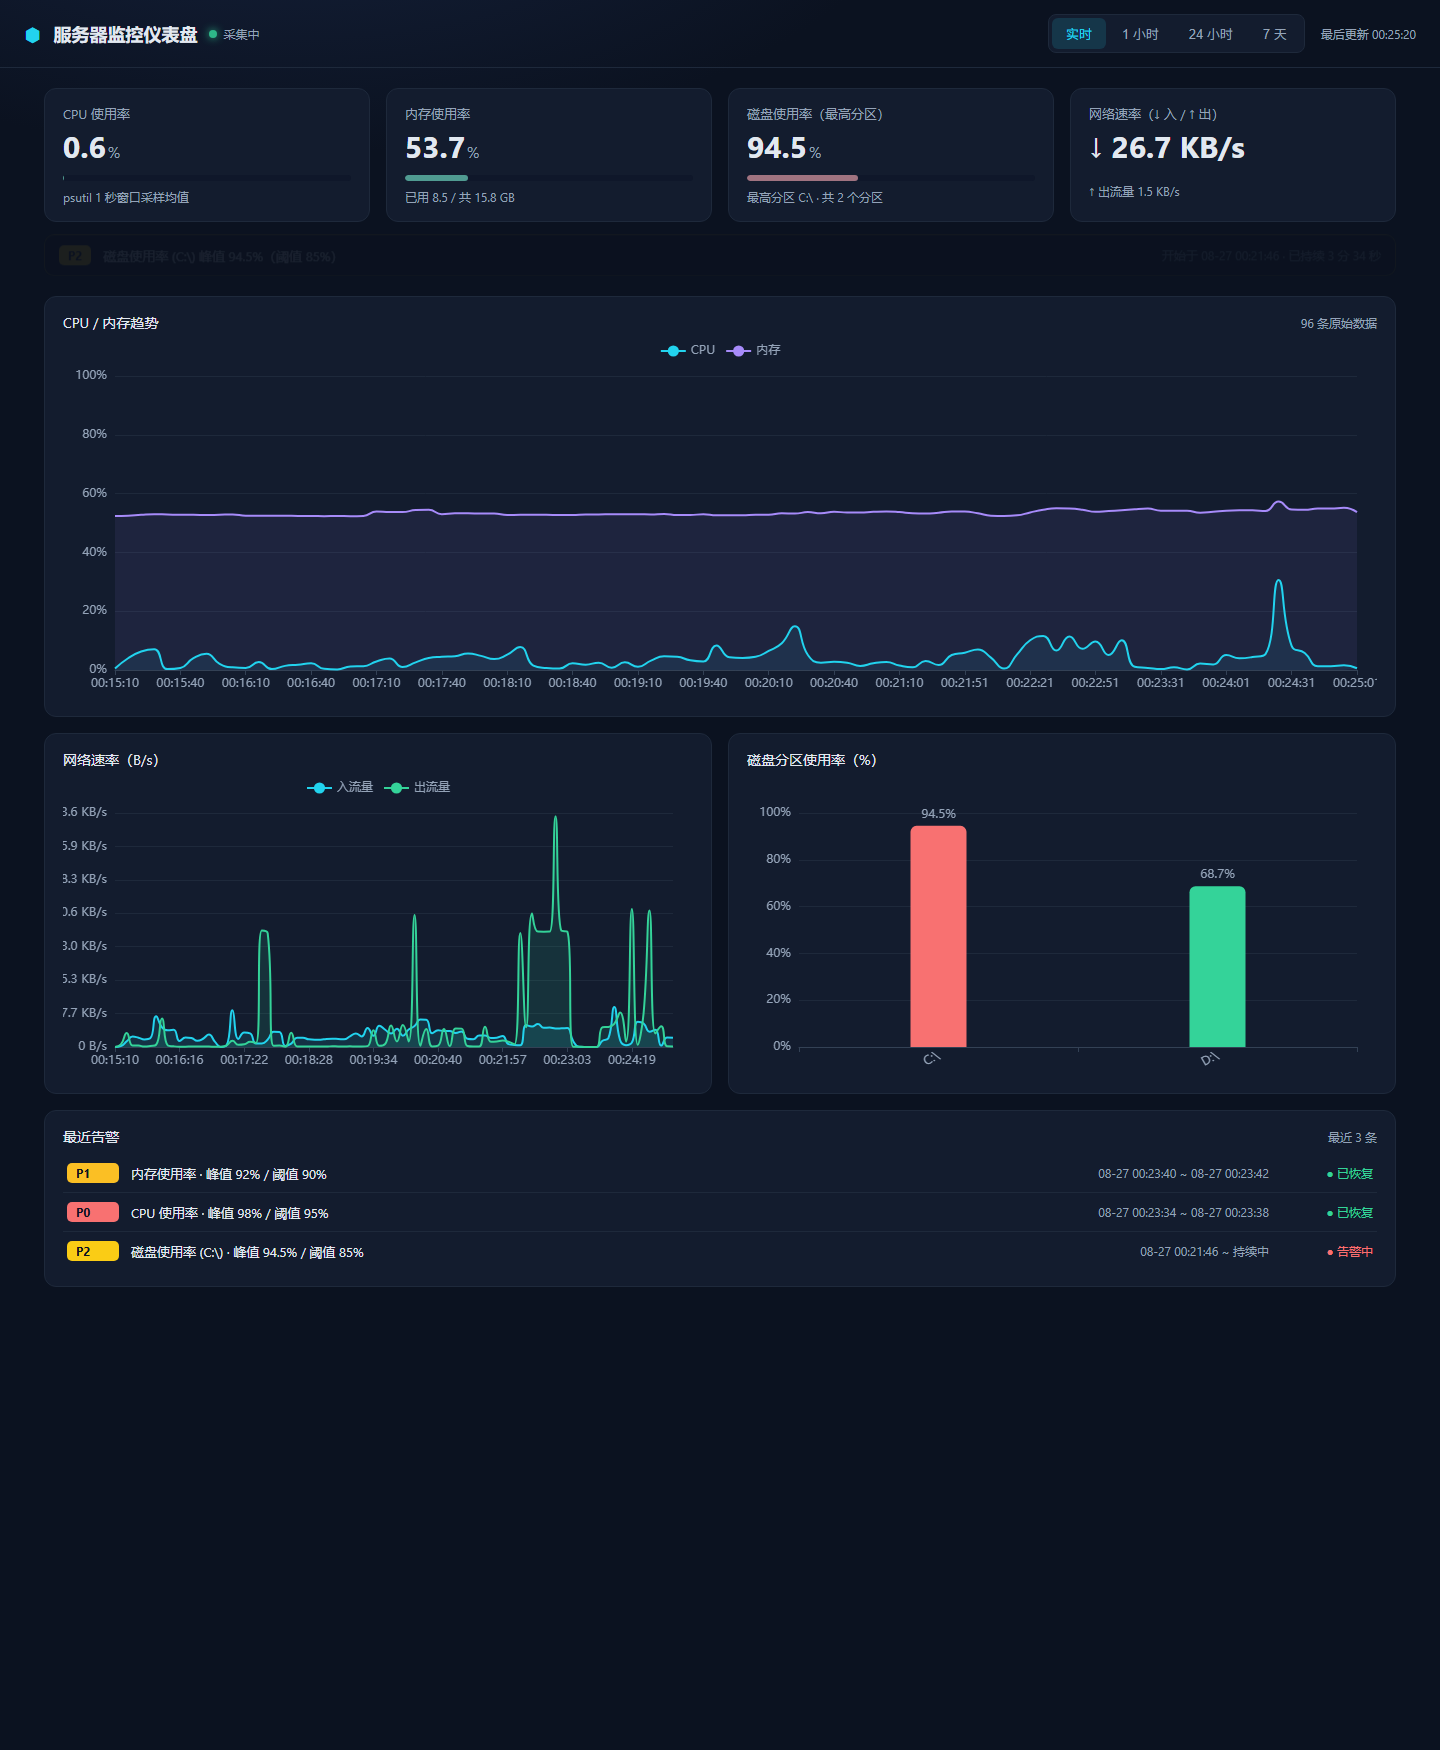
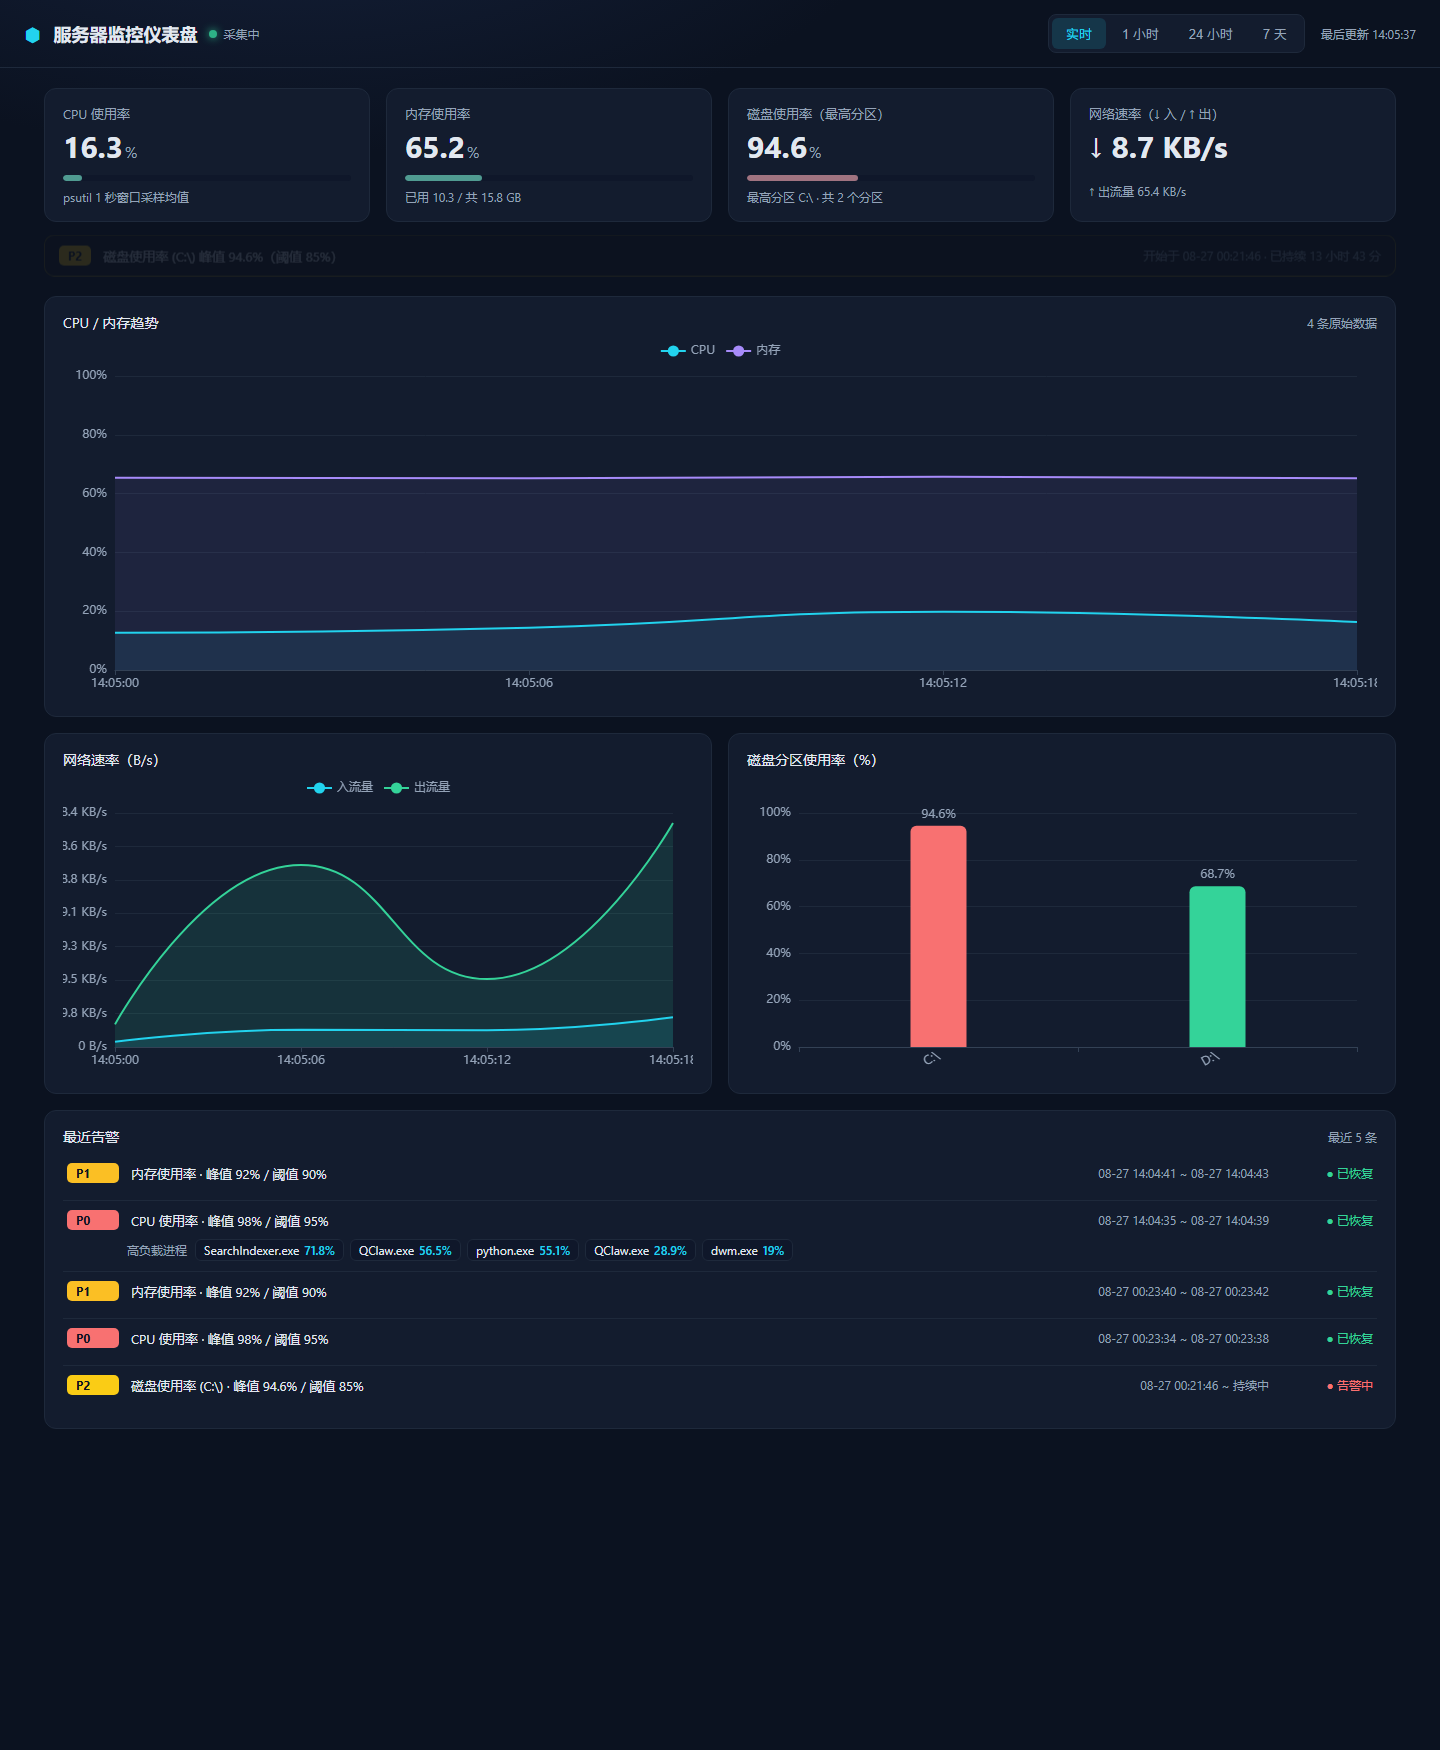
feat: 里程碑4 - P0 CPU告警高负载进程快照(collector.top_procs抓Top5/过滤SystemIdle/storage.alerts新增top_procs列/notify通知附进程列表/dashboard横幅与历史内联展示)

diff --git a/static/dashboard.js b/static/dashboard.js
@@ -223,6 +223,20 @@
     return base + (a.target ? ' (' + a.target + ')' : '');
   }
 
+  function procsHtml(procs) {
+    if (!procs || procs.length === 0) return '';
+    const items = procs.map((p) =>
+      '<span class="proc-chip">' + esc(p.name) + ' <em>' + p.cpu + '%</em></span>'
+    ).join('');
+    return '<div class="alert-procs"><span class="proc-label">高负载进程</span>' + items + '</div>';
+  }
+
+  function esc(s) {
+    return String(s).replace(/[&<>"']/g, (c) => ({
+      '&': '&amp;', '<': '&lt;', '>': '&gt;', '"': '&quot;', "'": '&#39;',
+    })[c]);
+  }
+
   function renderActive(alerts) {
     const banner = document.getElementById('alert-banner');
     if (!alerts || alerts.length === 0) {
@@ -234,9 +248,12 @@
     banner.innerHTML = alerts.map((a) => {
       const dur = Date.now() / 1000 - a.started_at;
       return '<div class="alert-item ' + a.level.toLowerCase() + '">'
+        + '<div class="alert-item-main">'
         + '<span class="level-badge ' + a.level.toLowerCase() + '">' + a.level + '</span>'
         + '<span>' + alertLabel(a) + ' 峰值 ' + a.peak_value + '%（阈值 ' + a.threshold + '%）</span>'
         + '<span class="alert-meta">开始于 ' + fmtDateTime(a.started_at) + ' · 已持续 ' + fmtDuration(dur) + '</span>'
+        + '</div>'
+        + procsHtml(a.top_procs)
         + '</div>';
     }).join('');
   }
@@ -253,11 +270,14 @@
     box.innerHTML = alerts.map((a) => {
       const active = a.ended_at === null;
       const dur = active ? (Date.now() / 1000 - a.started_at) : (a.ended_at - a.started_at);
-      return '<div class="alert-row">'
+      return '<div class="alert-row-wrap">'
+        + '<div class="alert-row">'
         + '<span class="level-badge ' + a.level.toLowerCase() + '">' + a.level + '</span>'
         + '<span>' + alertLabel(a) + ' · 峰值 ' + a.peak_value + '% / 阈值 ' + a.threshold + '%</span>'
         + '<span class="alert-time">' + fmtDateTime(a.started_at) + ' ~ ' + (active ? '持续中' : fmtDateTime(a.ended_at)) + '</span>'
         + '<span class="alert-status ' + (active ? 'active' : 'ok') + '">' + (active ? '● 告警中' : '● 已恢复') + '</span>'
+        + '</div>'
+        + procsHtml(a.top_procs)
         + '</div>';
     }).join('');
   }

diff --git a/static/dashboard.css b/static/dashboard.css
@@ -77,15 +77,26 @@ main {
 .alert-banner { display: flex; flex-direction: column; gap: 8px; }
 .alert-banner.hidden { display: none; }
 .alert-item {
-  display: flex; align-items: center; gap: 12px;
+  display: flex; flex-direction: column; gap: 8px;
   border-radius: 10px; padding: 10px 14px; font-size: 13px;
   background: rgba(248, 113, 113, 0.10); border: 1px solid rgba(248, 113, 113, 0.45);
   animation: fadeIn 0.4s ease;
 }
 .alert-item.p1 { background: rgba(251, 191, 36, 0.08); border-color: rgba(251, 191, 36, 0.45); }
 .alert-item.p2 { background: rgba(250, 204, 21, 0.06); border-color: rgba(250, 204, 21, 0.40); }
+.alert-item-main { display: flex; align-items: center; gap: 12px; }
 .alert-meta { margin-left: auto; color: var(--sub); font-size: 12px; white-space: nowrap; }
 @keyframes fadeIn { from { opacity: 0; transform: translateY(-4px); } to { opacity: 1; transform: none; } }
+
+/* 告警进程快照 */
+.alert-procs { display: flex; flex-wrap: wrap; align-items: center; gap: 6px; padding-left: 30px; }
+.proc-label { color: var(--sub); font-size: 12px; margin-right: 2px; }
+.proc-chip {
+  display: inline-flex; align-items: center; gap: 5px;
+  background: #0f172a; border: 1px solid var(--border); border-radius: 6px;
+  padding: 2px 8px; font-size: 12px; color: var(--text);
+}
+.proc-chip em { font-style: normal; color: var(--cyan); font-weight: 600; }
 
 .level-badge {
   font-weight: 700; font-size: 12px; padding: 2px 9px; border-radius: 5px; flex-shrink: 0;
@@ -98,9 +109,11 @@ main {
 .alert-row {
   display: grid; grid-template-columns: 52px 1fr auto 92px;
   gap: 12px; align-items: center; padding: 9px 4px;
-  border-bottom: 1px solid var(--border); font-size: 13px;
+  font-size: 13px;
 }
-.alert-row:last-child { border-bottom: none; }
+.alert-row-wrap { border-bottom: 1px solid var(--border); padding-bottom: 8px; }
+.alert-row-wrap:last-child { border-bottom: none; }
+.alert-row-wrap .alert-procs { padding-left: 64px; padding-bottom: 2px; }
 .alert-time { color: var(--sub); font-size: 12px; white-space: nowrap; }
 .alert-status { font-size: 12px; text-align: right; white-space: nowrap; }
 .alert-status.active { color: #f87171; }

diff --git a/storage.py b/storage.py
@@ -45,9 +45,14 @@ def _connect():
             peak_value REAL,            -- 告警期间峰值
             started_at REAL NOT NULL,
             ended_at REAL,              -- NULL 表示尚未恢复
-            notified INTEGER DEFAULT 0
+            notified INTEGER DEFAULT 0,
+            top_procs TEXT              -- 告警触发时 top 进程快照 JSON（里程碑 4 新增）
         )
     """)
+    # 轻量迁移：旧库 alerts 表缺 top_procs 列时补齐（里程碑 4）
+    alert_cols = {row[1] for row in conn.execute("PRAGMA table_info(alerts)")}
+    if "top_procs" not in alert_cols:
+        conn.execute("ALTER TABLE alerts ADD COLUMN top_procs TEXT")
     conn.execute("CREATE INDEX IF NOT EXISTS idx_alerts_started ON alerts(started_at)")
     return conn
 
@@ -174,16 +179,18 @@ def _alert_from_row(r) -> dict:
         "peak_value": r[5],
         "started_at": r[6],
         "ended_at": r[7],
+        "top_procs": json.loads(r[8]) if len(r) > 8 and r[8] else [],
     }
 
 
-def create_alert(level, metric, target, threshold, peak_value) -> int:
-    """新告警入库，返回告警 id。"""
+def create_alert(level, metric, target, threshold, peak_value, top_procs=None) -> int:
+    """新告警入库，返回告警 id。top_procs 为触发时进程快照（可空）。"""
     conn = _connect()
     cur = conn.execute(
-        "INSERT INTO alerts (level, metric, target, threshold, peak_value, started_at) "
-        "VALUES (?, ?, ?, ?, ?, ?)",
-        (level, metric, target, threshold, peak_value, time.time()),
+        "INSERT INTO alerts (level, metric, target, threshold, peak_value, started_at, top_procs) "
+        "VALUES (?, ?, ?, ?, ?, ?, ?)",
+        (level, metric, target, threshold, peak_value, time.time(),
+         json.dumps(top_procs, ensure_ascii=False) if top_procs else None),
     )
     conn.commit()
     alert_id = cur.lastrowid
@@ -214,7 +221,7 @@ def active_alerts() -> list:
     """当前未恢复的告警。"""
     conn = _connect()
     rows = conn.execute(
-        "SELECT id, level, metric, target, threshold, peak_value, started_at, ended_at "
+        "SELECT id, level, metric, target, threshold, peak_value, started_at, ended_at, top_procs "
         "FROM alerts WHERE ended_at IS NULL ORDER BY started_at DESC"
     ).fetchall()
     conn.close()
@@ -225,7 +232,7 @@ def recent_alerts(limit: int = 50) -> list:
     """最近 limit 条告警记录（含已恢复），新→旧。"""
     conn = _connect()
     rows = conn.execute(
-        "SELECT id, level, metric, target, threshold, peak_value, started_at, ended_at "
+        "SELECT id, level, metric, target, threshold, peak_value, started_at, ended_at, top_procs "
         "FROM alerts ORDER BY started_at DESC LIMIT ?", (limit,)
     ).fetchall()
     conn.close()

diff --git a/collector.py b/collector.py
@@ -10,6 +10,43 @@ import time
 import psutil
 
 
+def snapshot_top_procs(n: int = 5, interval: float = 0.3) -> list:
+    """抓取当前 CPU 占用最高的 n 个进程快照（告警触发时调用，事后排查用）。
+
+    面试要点：
+    - 告警不只是告诉你"出事了"，还要告诉你"是谁干的"——快照记录元凶
+    - psutil 的 cpu_percent 第一次调用返回 0（只有基线），需先建立基线、
+      sleep 一小段再取第二次，才是真实占用
+    - 只在告警触发的"边沿"抓一次，不在每次采集都抓，避免额外开销
+    """
+    procs = []
+    for p in psutil.process_iter(['pid', 'name']):
+        try:
+            p.cpu_percent(interval=None)  # 第一次调用建立基线
+            procs.append(p)
+        except (psutil.NoSuchProcess, psutil.AccessDenied):
+            continue
+
+    time.sleep(interval)  # 让出时间，第二次调用才得到真实占用
+
+    rows = []
+    for p in procs:
+        try:
+            info = p.info
+            cpu = p.cpu_percent(interval=None)
+            rows.append((cpu, info['pid'], info['name']))
+        except (psutil.NoSuchProcess, psutil.AccessDenied):
+            continue
+
+    # 先过滤掉空闲进程（PID 0 的空闲不是元凶），再排序取前 n
+    rows = [r for r in rows if r[1] != 0 and r[2] != "System Idle Process"]
+    rows.sort(reverse=True)
+    return [
+        {"pid": pid, "name": name, "cpu": round(cpu, 1)}
+        for cpu, pid, name in rows[:n]
+    ]
+
+
 class Collector:
     def __init__(self):
         self._last_net = None   # 上次网络计数

diff --git a/alert.py b/alert.py
@@ -13,6 +13,7 @@ import socket
 import time
 
 import config
+import collector
 import notify
 import storage
 
@@ -94,11 +95,21 @@ class AlertEngine:
         st["firing"] = True
         st["peak"] = value
         st["started_at"] = time.time()
-        st["alert_id"] = storage.create_alert(level, metric_name, target, threshold, value)
+
+        # 里程碑 4：CPU 高负载告警触发时抓 top 进程快照，记录"元凶"便于事后排查
+        top_procs = None
+        if metric_name == "cpu_percent":
+            try:
+                top_procs = collector.snapshot_top_procs(n=5)
+            except Exception as e:
+                print(f"[告警引擎] 进程快照失败（不影响告警）: {e}", flush=True)
+
+        st["alert_id"] = storage.create_alert(
+            level, metric_name, target, threshold, value, top_procs)
 
         title, text = notify.build_alert_message(
             level, METRIC_LABELS[metric_name], target, value, threshold,
-            self.hostname, st["started_at"],
+            self.hostname, st["started_at"], top_procs,
         )
         channels = self.notifier.send(title, text)
         print(f"[告警引擎] 触发 {level} {METRIC_LABELS[metric_name]}"

diff --git a/notify.py b/notify.py
@@ -101,7 +101,7 @@ class Notifier:
             server.quit()
 
 
-def build_alert_message(level, metric_label, target, value, threshold, hostname, ts) -> tuple:
+def build_alert_message(level, metric_label, target, value, threshold, hostname, ts, top_procs=None) -> tuple:
     """组装告警/恢复通知的标题与正文（钉钉 markdown / 邮件纯文本通用）。"""
     title = f"🚨 [{level}] 告警触发: {metric_label}"
     lines = [
@@ -110,6 +110,10 @@ def build_alert_message(level, metric_label, target, value, threshold, hostname,
         f"**当前值**: {value}%  (阈值 {threshold}%)",
         f"**时间**: {fmt_time(ts)}",
     ]
+    if top_procs:
+        lines.append("**高负载进程**:")
+        lines += [f"  {i}. {p['name']} (PID {p['pid']}) — {p['cpu']}%"
+                  for i, p in enumerate(top_procs, 1)]
     return title, "\n\n".join(lines) + "\n"
 
 
